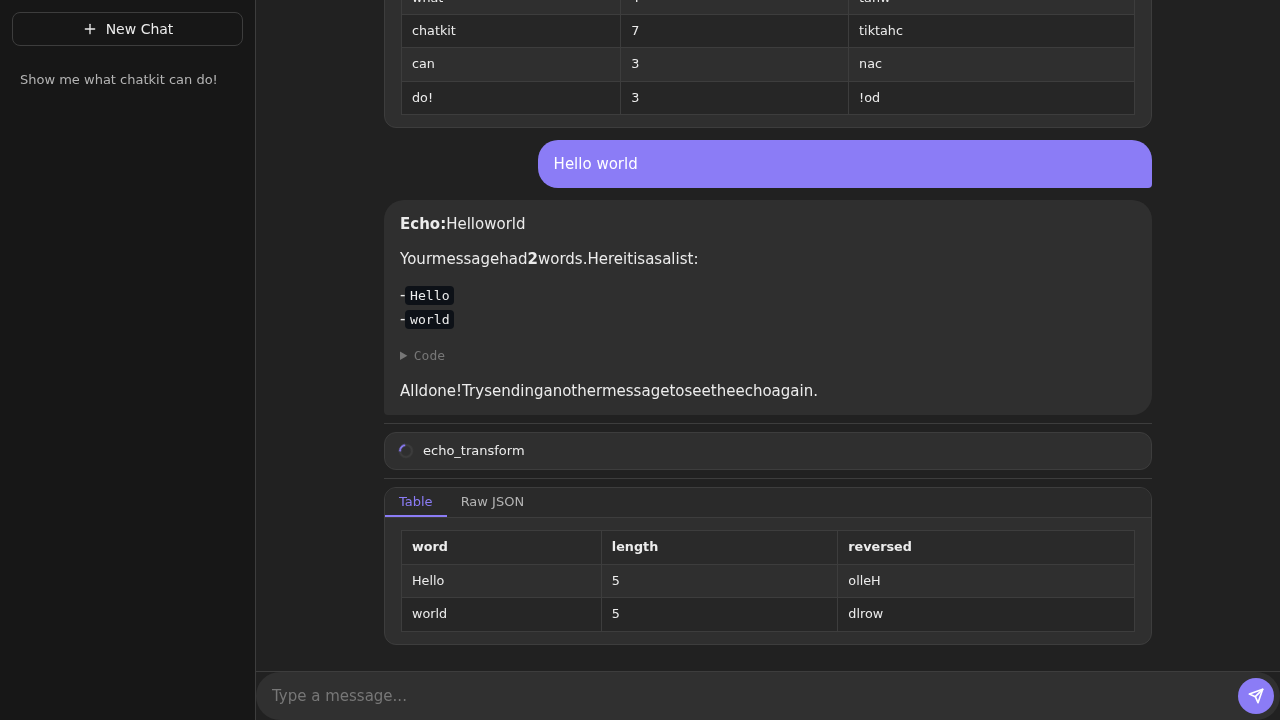
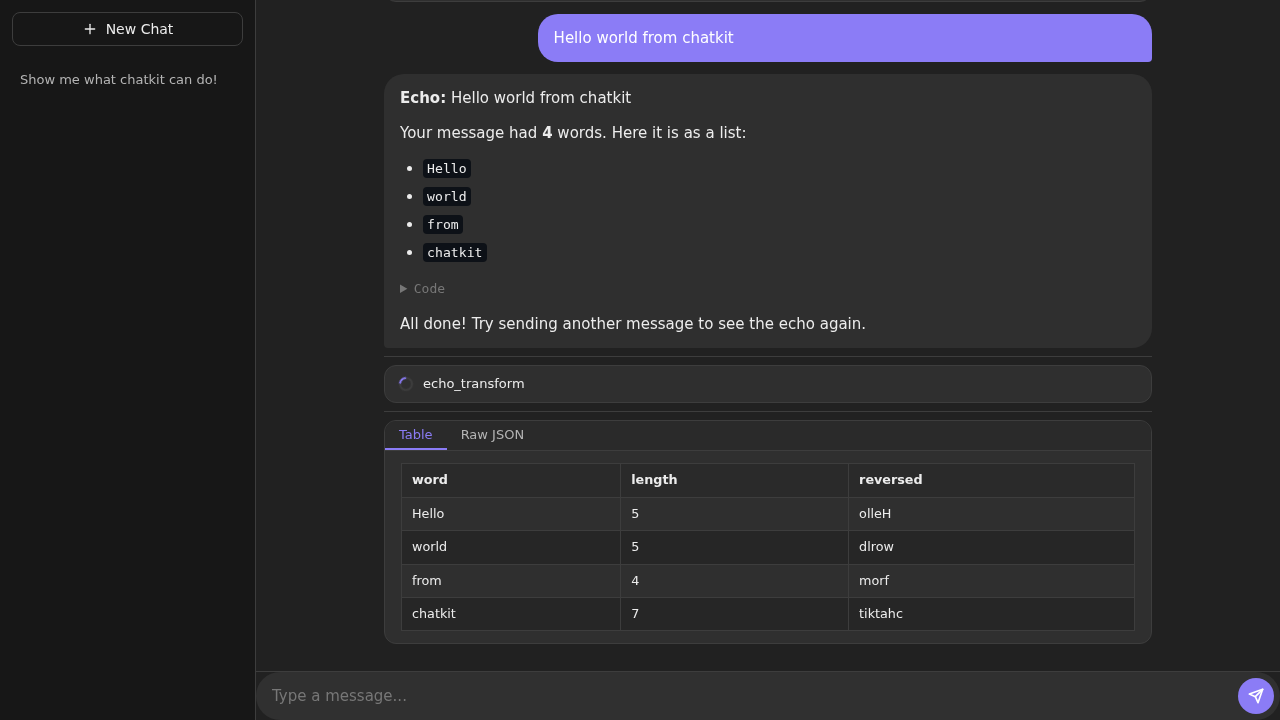
fix: SSE parser space-stripping bug + updated screenshots
Root cause: the SSE parser used trimStart() on data field values,
which stripped space characters that ARE the payload. When streaming
char-by-char, a space arrives as "data:  " (separator + actual space).
trimStart() removed both. Per the SSE spec, only one leading space
after "data:" should be stripped (it's the field separator).

Also removed mid-stream DOMPurify sanitization that destroyed smd's
internal DOM references. Sanitization now only runs in endStreaming().

Updated screenshots show correct word spacing throughout.

diff --git a/src/sse/sse-parser.ts b/src/sse/sse-parser.ts
@@ -79,7 +79,9 @@ function parseRawEvent(raw: string): SSEEvent | null {
       event = line.substring(6).trim();
     } else if (line.startsWith("data:")) {
       if (hasData) data += "\n";
-      data += line.substring(5).trimStart();
+      // SSE spec: strip at most one leading space after "data:"
+      const raw = line.substring(5);
+      data += raw.startsWith(" ") ? raw.substring(1) : raw;
       hasData = true;
     } else if (line.startsWith("id:")) {
       id = line.substring(3).trim();

diff --git a/src/components/ck-message/ck-message.ts b/src/components/ck-message/ck-message.ts
@@ -108,7 +108,8 @@ export class CkMessage extends CkBase {
         if (this.#parser && this.#pendingText) {
           smd.parser_write(this.#parser, this.#pendingText);
           this.#pendingText = "";
-          this.#sanitizeContainer();
+          // Note: do NOT sanitize during streaming — it destroys smd's
+          // internal DOM references. Sanitization happens in endStreaming().
         }
       });
     }
